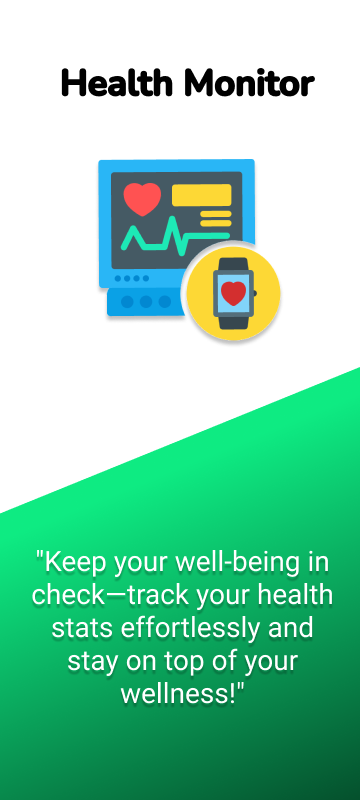
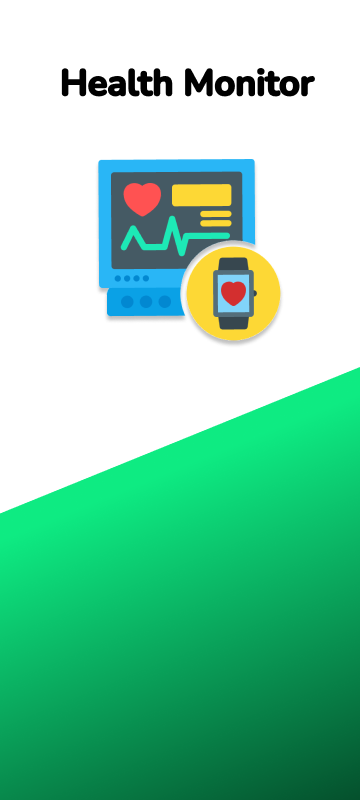
Updated all the sliders

Changed region(s): [[0.0917, 0.6875, 0.9167, 0.9062]]

diff --git a/app2/Views/SliderPage.xaml b/app2/Views/SliderPage.xaml
@@ -16,8 +16,28 @@
                       VerticalOptions="FillAndExpand">
             <CarouselView.ItemTemplate>
                 <DataTemplate x:DataType="models:SliderPageModel">
-                    <Image Source="{Binding SliderImage}"
-                           Aspect="AspectFill" />
+                    <Grid>
+
+                        <Grid.RowDefinitions>
+                            <RowDefinition Height="2*" />
+                            <RowDefinition Height="1*" />
+                        </Grid.RowDefinitions>
+
+                        <Image Source="{Binding SliderImage}"
+                               Aspect="Fill"
+                               Grid.RowSpan="2" />
+
+                        <!-- Bind the Label text to the SliderText property -->
+                        <Label Text="{Binding SliderText}"
+                               Grid.Row="1"
+                               FontSize="28"
+                               Padding="25"
+                               Margin="13,0,0,0"
+                               FontFamily="Caladea"
+                               HorizontalOptions="Center"
+                               TextColor="White"
+                               FontAttributes="Italic" />
+                    </Grid>
                 </DataTemplate>
             </CarouselView.ItemTemplate>
         </CarouselView>

diff --git a/app2/ViewModels/SliderPageViewModel.cs b/app2/ViewModels/SliderPageViewModel.cs
@@ -17,22 +17,26 @@ namespace app2.ViewModels
         {
             SliderScreens.Add(new SliderPageModel
             {
-                SliderImage = "slider1"
+                SliderImage = "slider1",
+                SliderText = "Welcome to SafeZone! We're here to keep you safe and connected—anytime, anywhere, with just a tap."
             });
 
             SliderScreens.Add(new SliderPageModel
             {
-                SliderImage = "slider2"
+                SliderImage = "slider2",
+                SliderText = "Your safety is our priority. Stay connected with SafeZone in any emergency."
             });
 
             SliderScreens.Add(new SliderPageModel
             {
-                SliderImage = "slider3"
+                SliderImage = "slider3",
+                SliderText = "Find help nearby with ease. SafeZone is your companion in times of need."
             });
 
             SliderScreens.Add(new SliderPageModel
             {
-                SliderImage = "slider4"
+                SliderImage = "slider4",
+                SliderText = "Join SafeZone and experience peace of mind, knowing help is just a tap away."
             });
         }
     }

diff --git a/app2/Models/SliderPageModel.cs b/app2/Models/SliderPageModel.cs
@@ -9,5 +9,6 @@ namespace app2.Models
     public class SliderPageModel
     {
         public string SliderImage { get; set; }
+        public string SliderText { get; set; }
     }
 }
